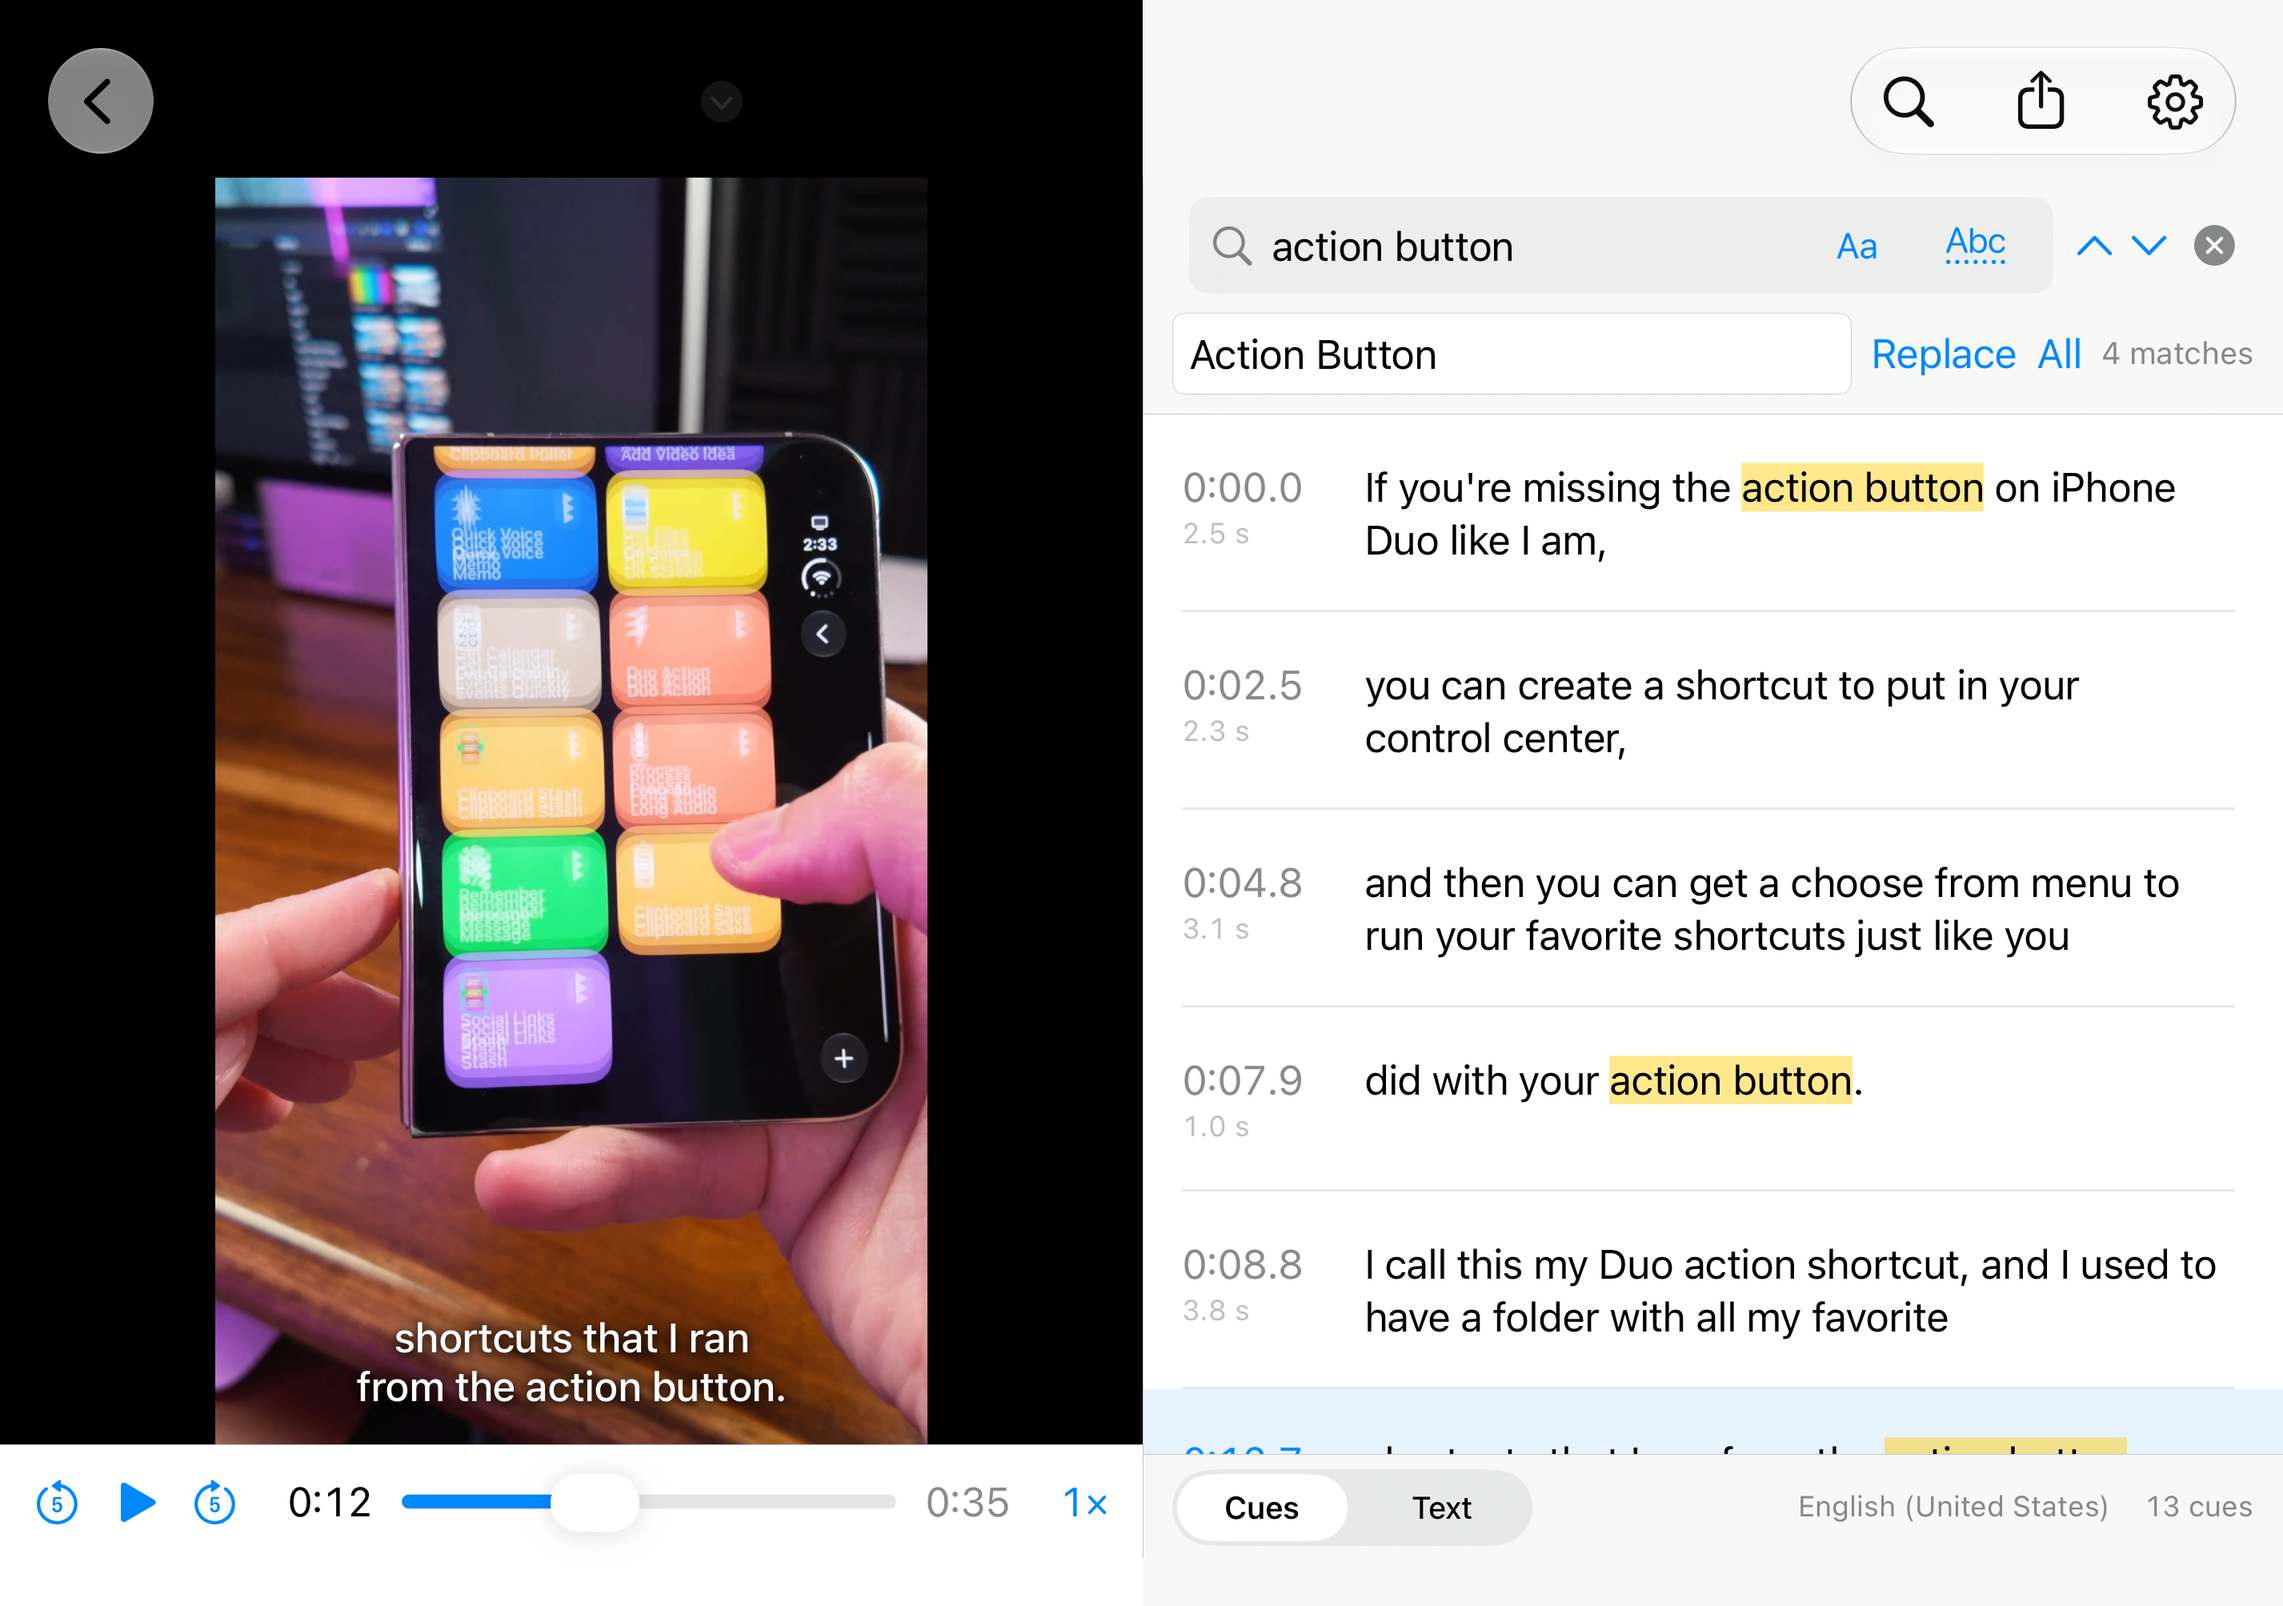
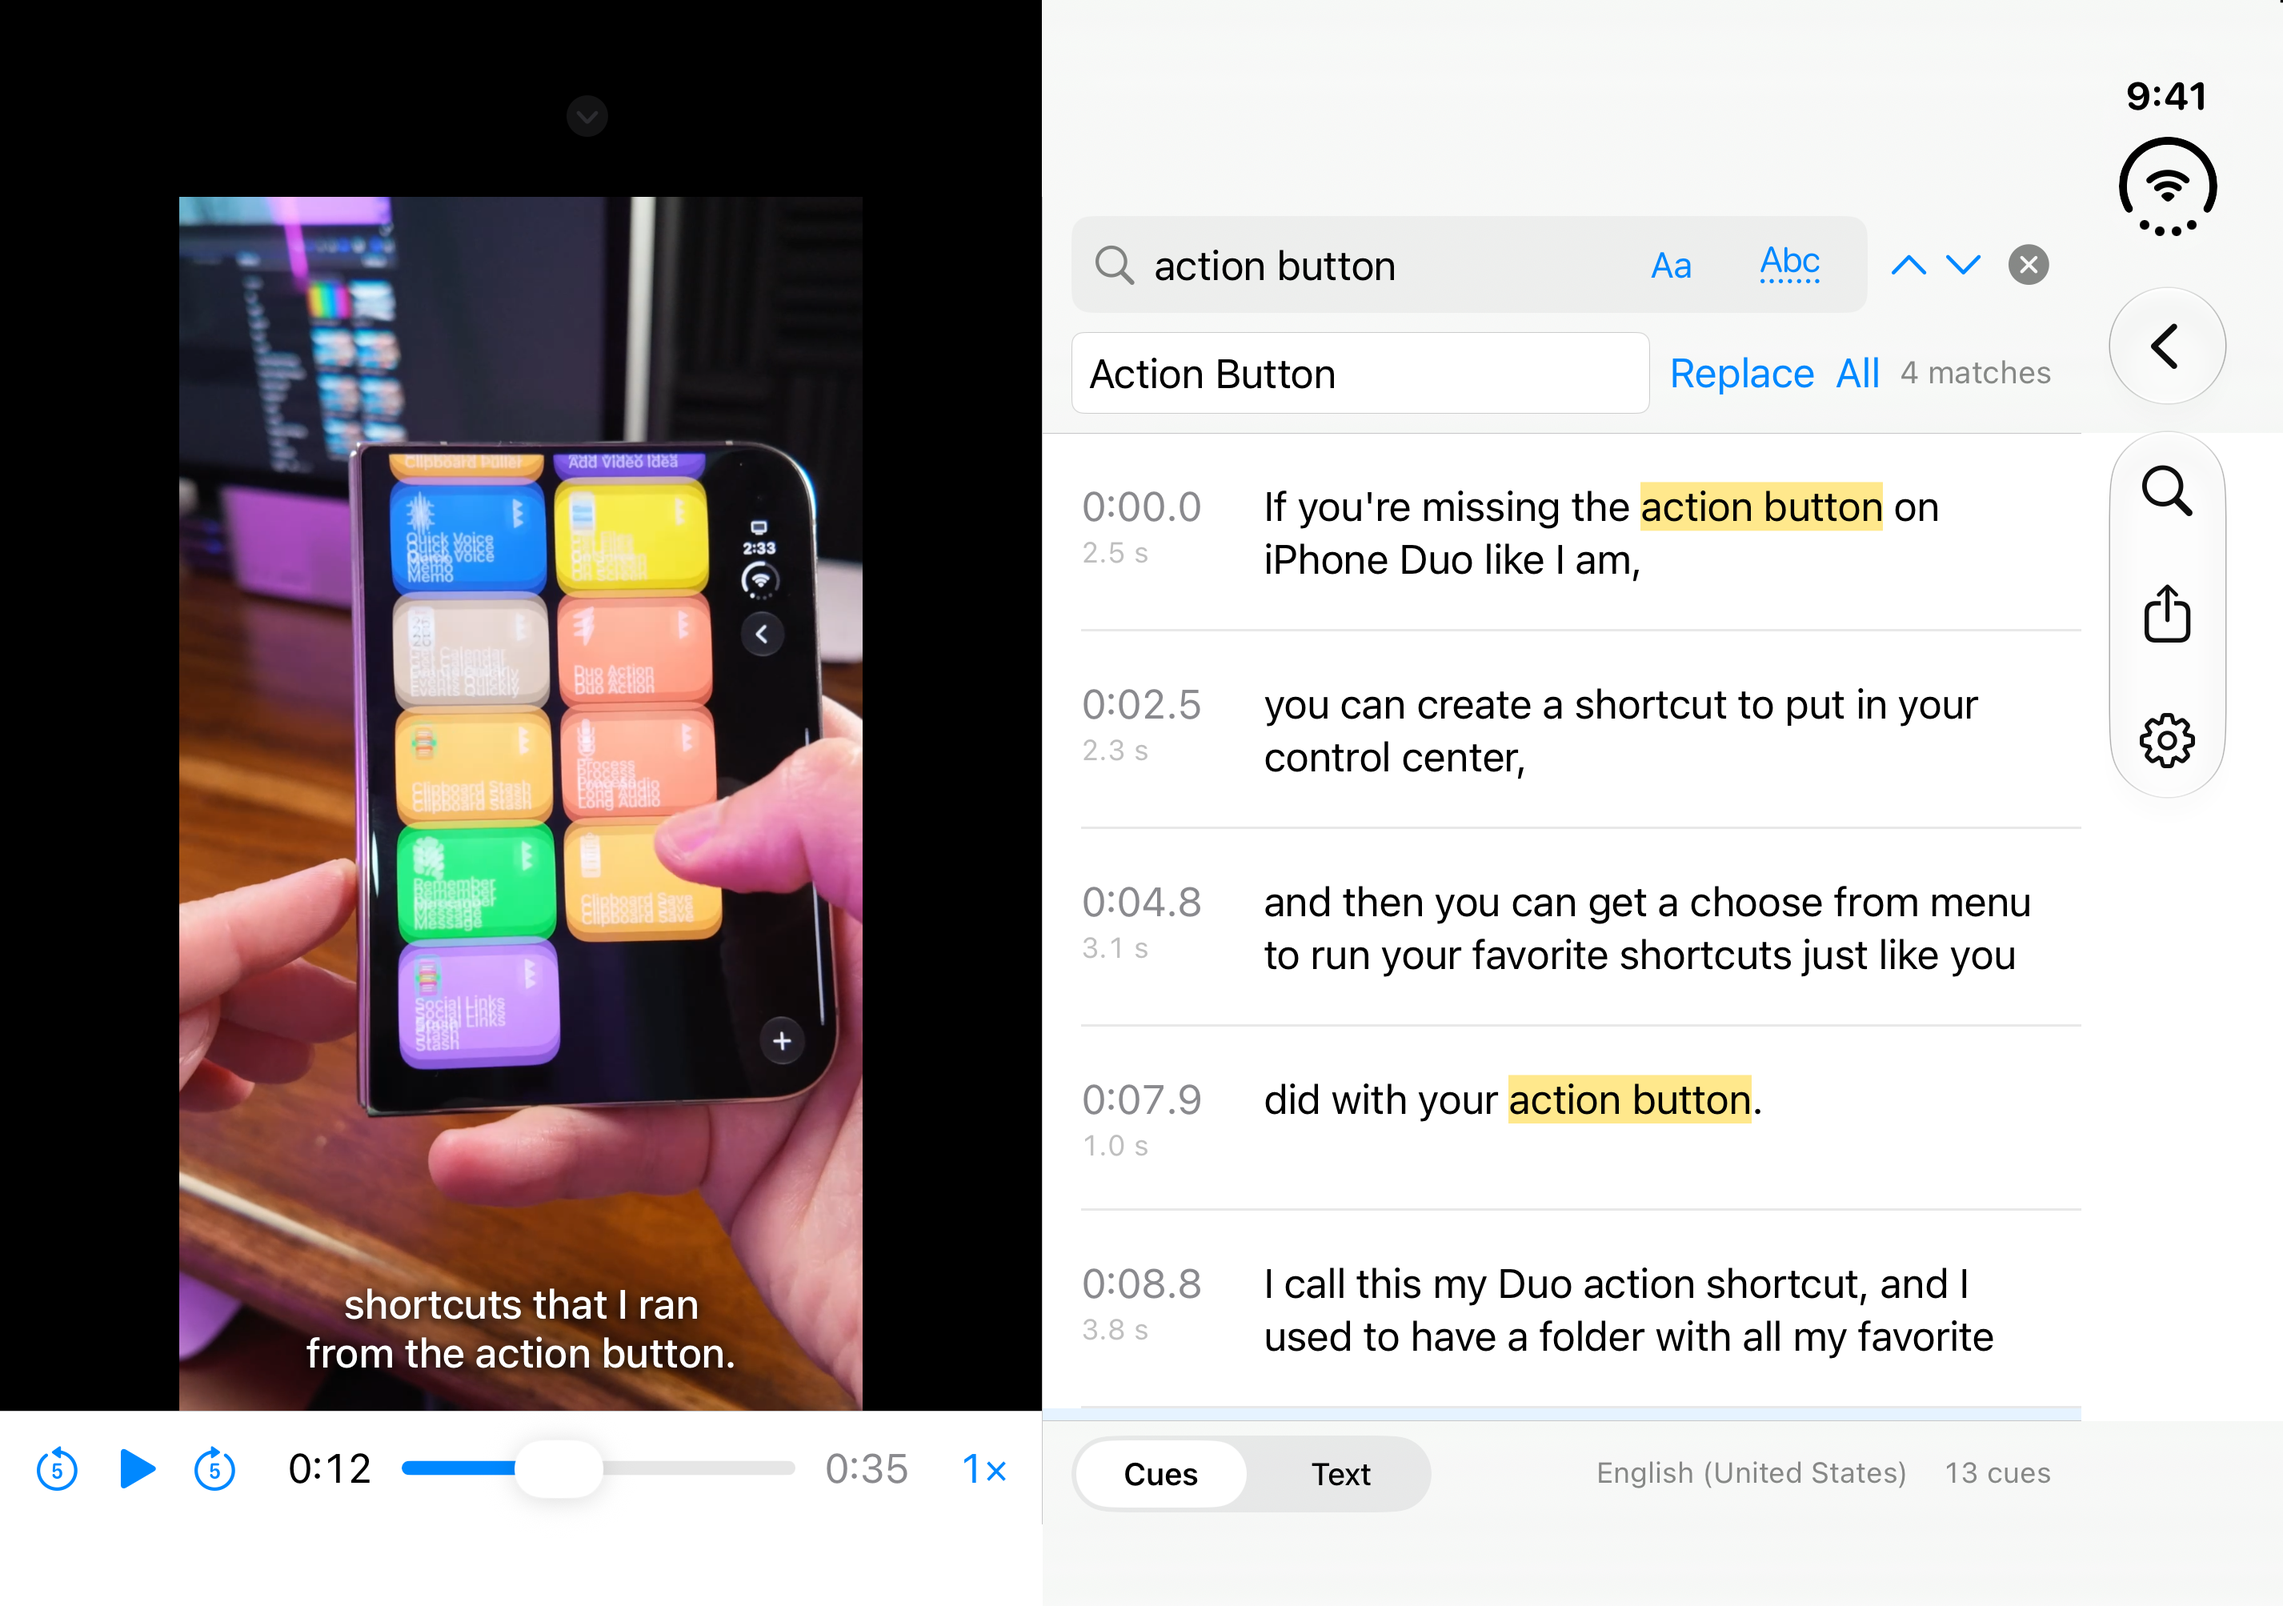
1.3.1: iPhone Duo screenshots recaptured on the unfolded inner display
Device Hub now unfolds the simulator, so the five shots carry the real status bar
instead of the hidden Resizable-display captures. README recipe updated.

diff --git a/Marketing/AppStore/iPhone-Duo/README.md b/Marketing/AppStore/iPhone-Duo/README.md
@@ -3,7 +3,7 @@
 Five shots for the App Store `APP_IPHONE_DUO` slot, which earns the "Made for iPhone Duo"
 badge. Framed like Kan Do's, Stash's and Captioner's sets: the whole device in Apple's Duo
 frame under a centered white SF Bold headline, on Transcriber's lavender-to-purple icon
-gradient. Raw captures are in `raw/` (no status bar; see the recipe). First made for 1.3.1.
+gradient. Raw captures (inner display, real status bar) are in `raw/`. First made for 1.3.1.
 
 | Shot | Video (BT Shorts) | Seek | Look | Headline |
 |---|---|---|---|---|
@@ -31,9 +31,13 @@ gradient. Raw captures are in `raw/` (no status bar; see the recipe). First made
    `TRANSCRIBER_REPLACE` open the Find bar prefilled, `TRANSCRIBER_NO_FOCUS` keeps the keyboard
    away, `TRANSCRIBER_HINGE=closed|open|book|book-h|book-v` forces a posture. Menus and
    popovers don't survive the display move below; sheets and view state do.
-4. **Capture.** `Marketing/duo-tools/capture-duo.sh raw/NN.png`. The fold can't be scripted, so
-   the app is moved to a hidden 951 × 669 pt "Resizable" display with `devicectl device appResize`
-   and captured there: the inner display's exact size and layout, no status bar.
+4. **Capture.** Unfold the simulator in Xcode's Device Hub (the sim boots folded, inner display
+   black), set `simctl status_bar <udid> override --time 9:41 --batteryState discharging --batteryLevel 100 --wifiMode active --wifiBars 3 --cellularMode active --cellularBars 4`
+   (charging draws a green ring in the Duo status cluster), tap the project tile on the inner
+   display (Action Control at 797,140 pt; Apple Pay at 674,340; Text toggle at 558,613), then
+   `xcrun devicectl device capture screenshot --device <udid> --display-unique-id <LCD-1 id from devicectl device info displays> --destination raw/NN.png`.
+   Fallback when Device Hub isn't available: `Marketing/duo-tools/capture-duo.sh raw/NN.png`
+   moves the app to a hidden 951 × 669 pt "Resizable" display and captures it there (no status bar).
 5. **Compose.** `swiftc -O Marketing/compose-duo-frame.swift -o build/compose-duo`, then
    `build/compose-duo 2853 2007 raw/NN.png NN.png "Headline"`. The bezel and Apple's license
    are in `Marketing/Bezels/` (copied from Kan Do).
